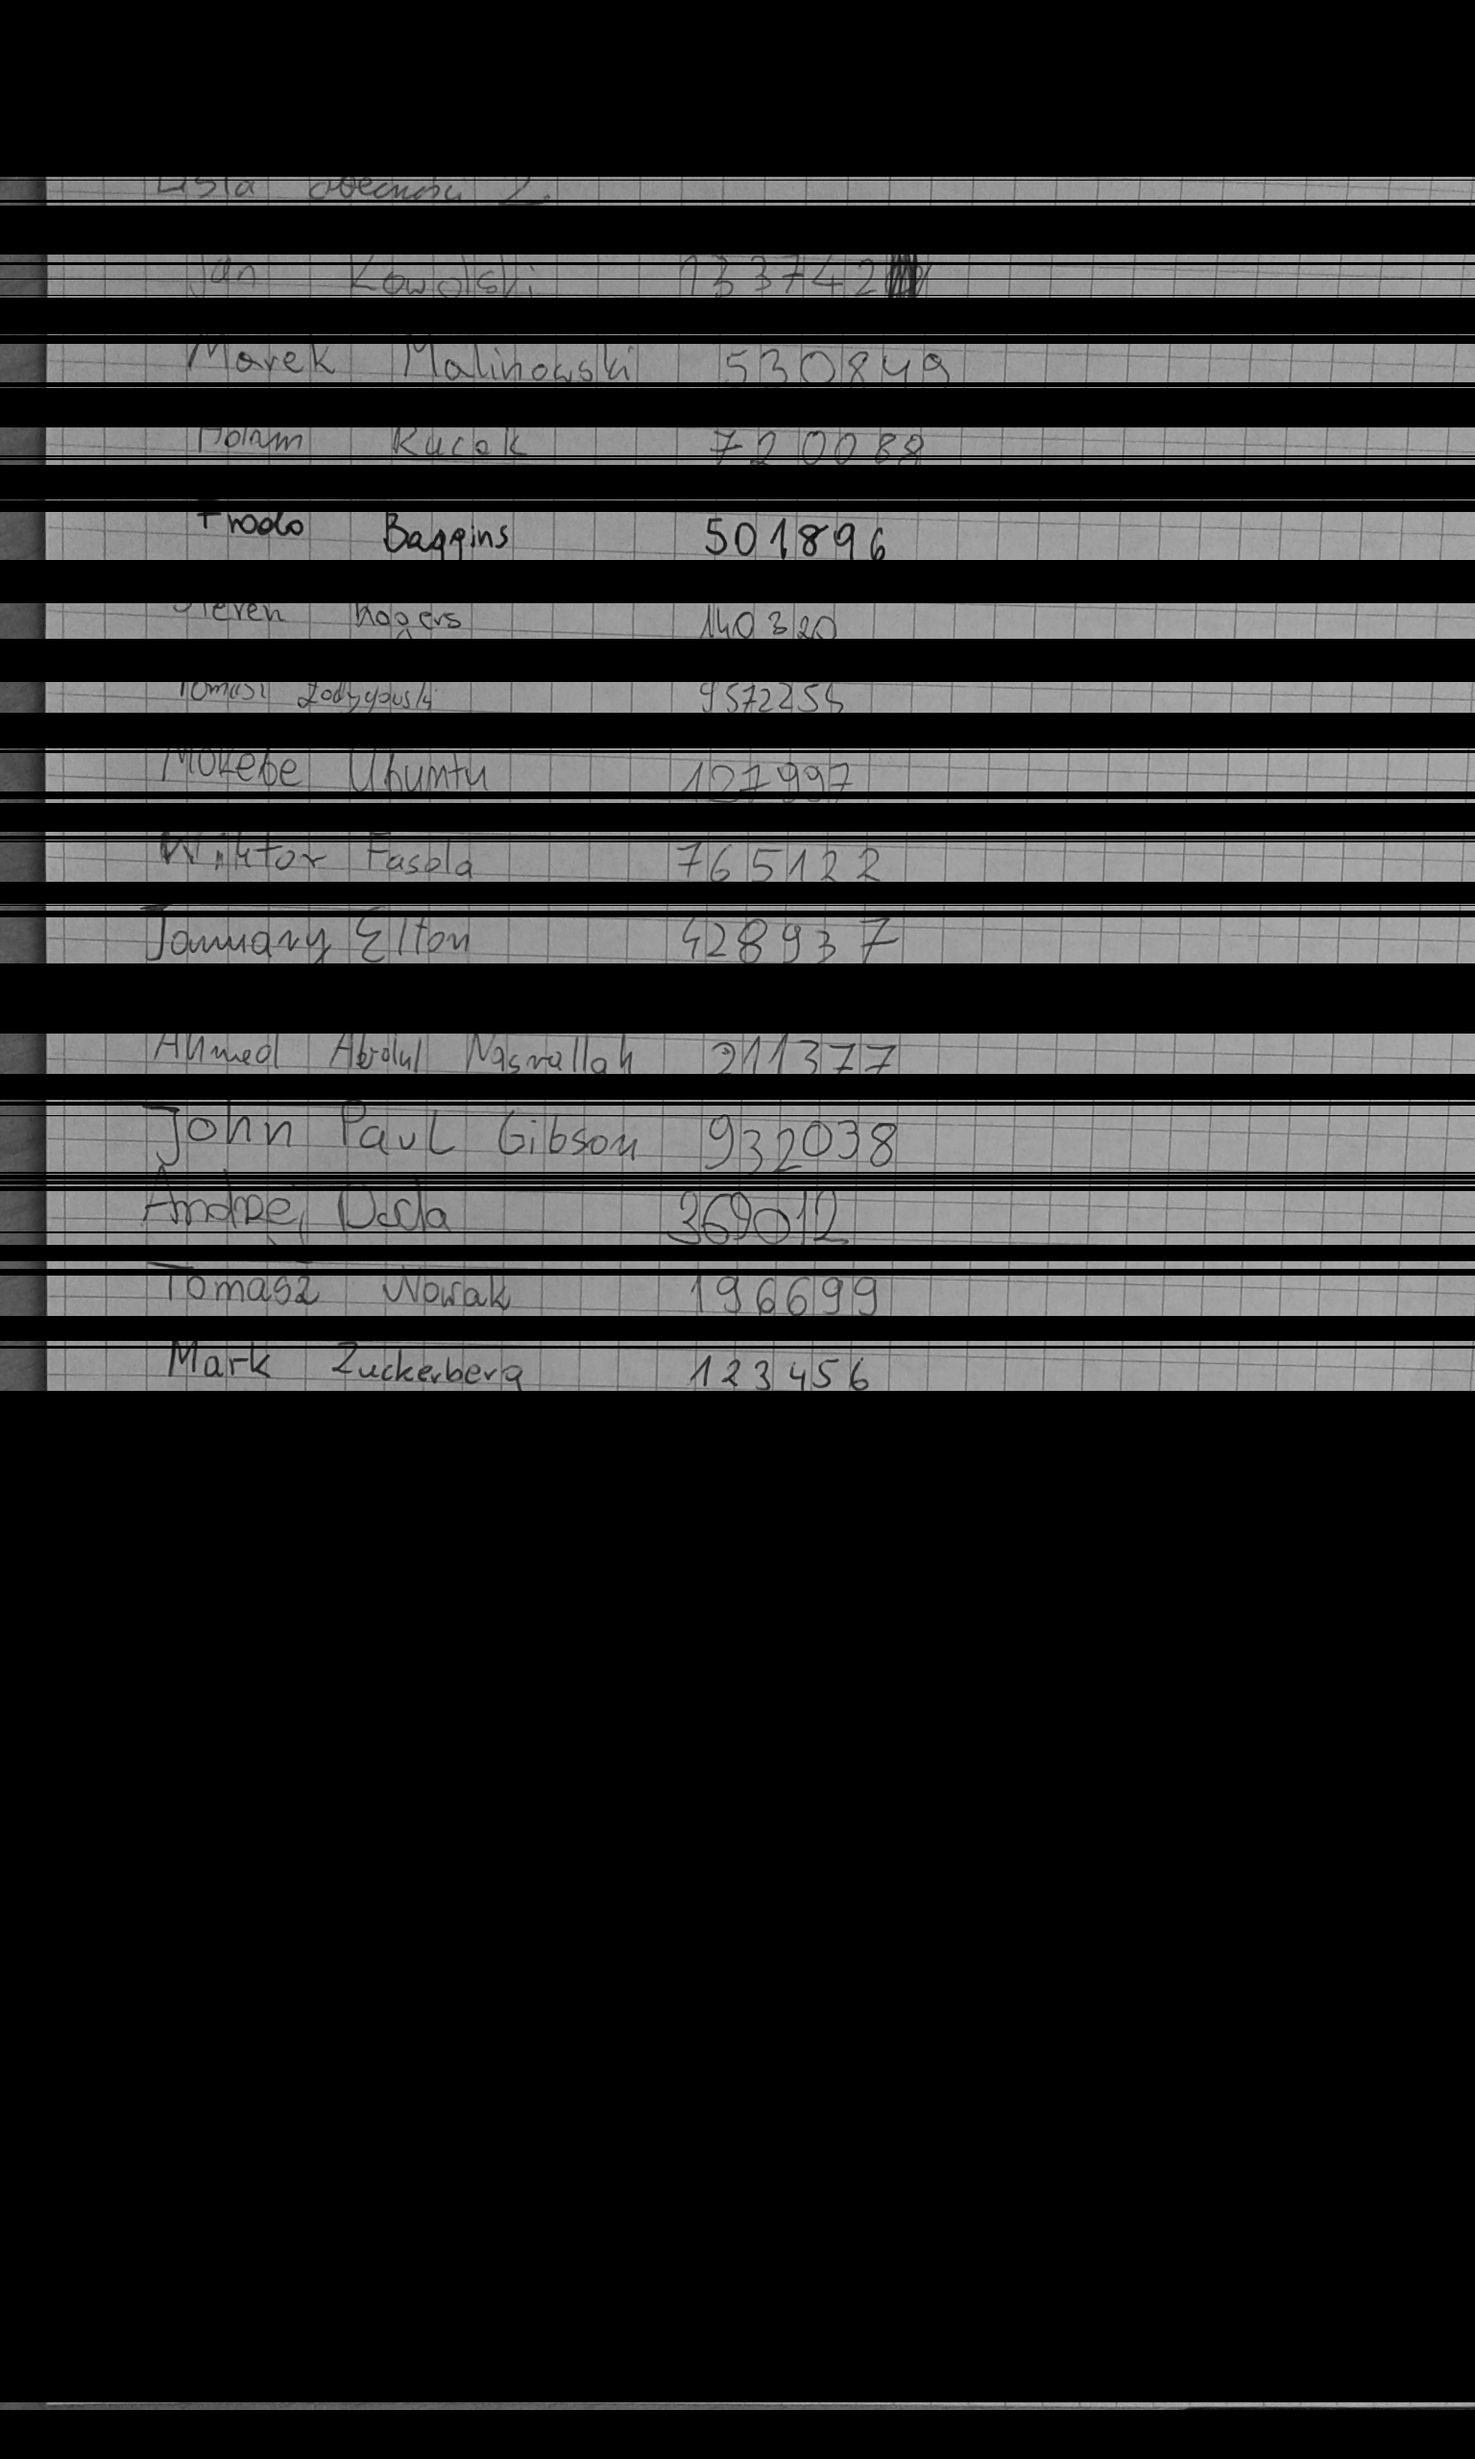
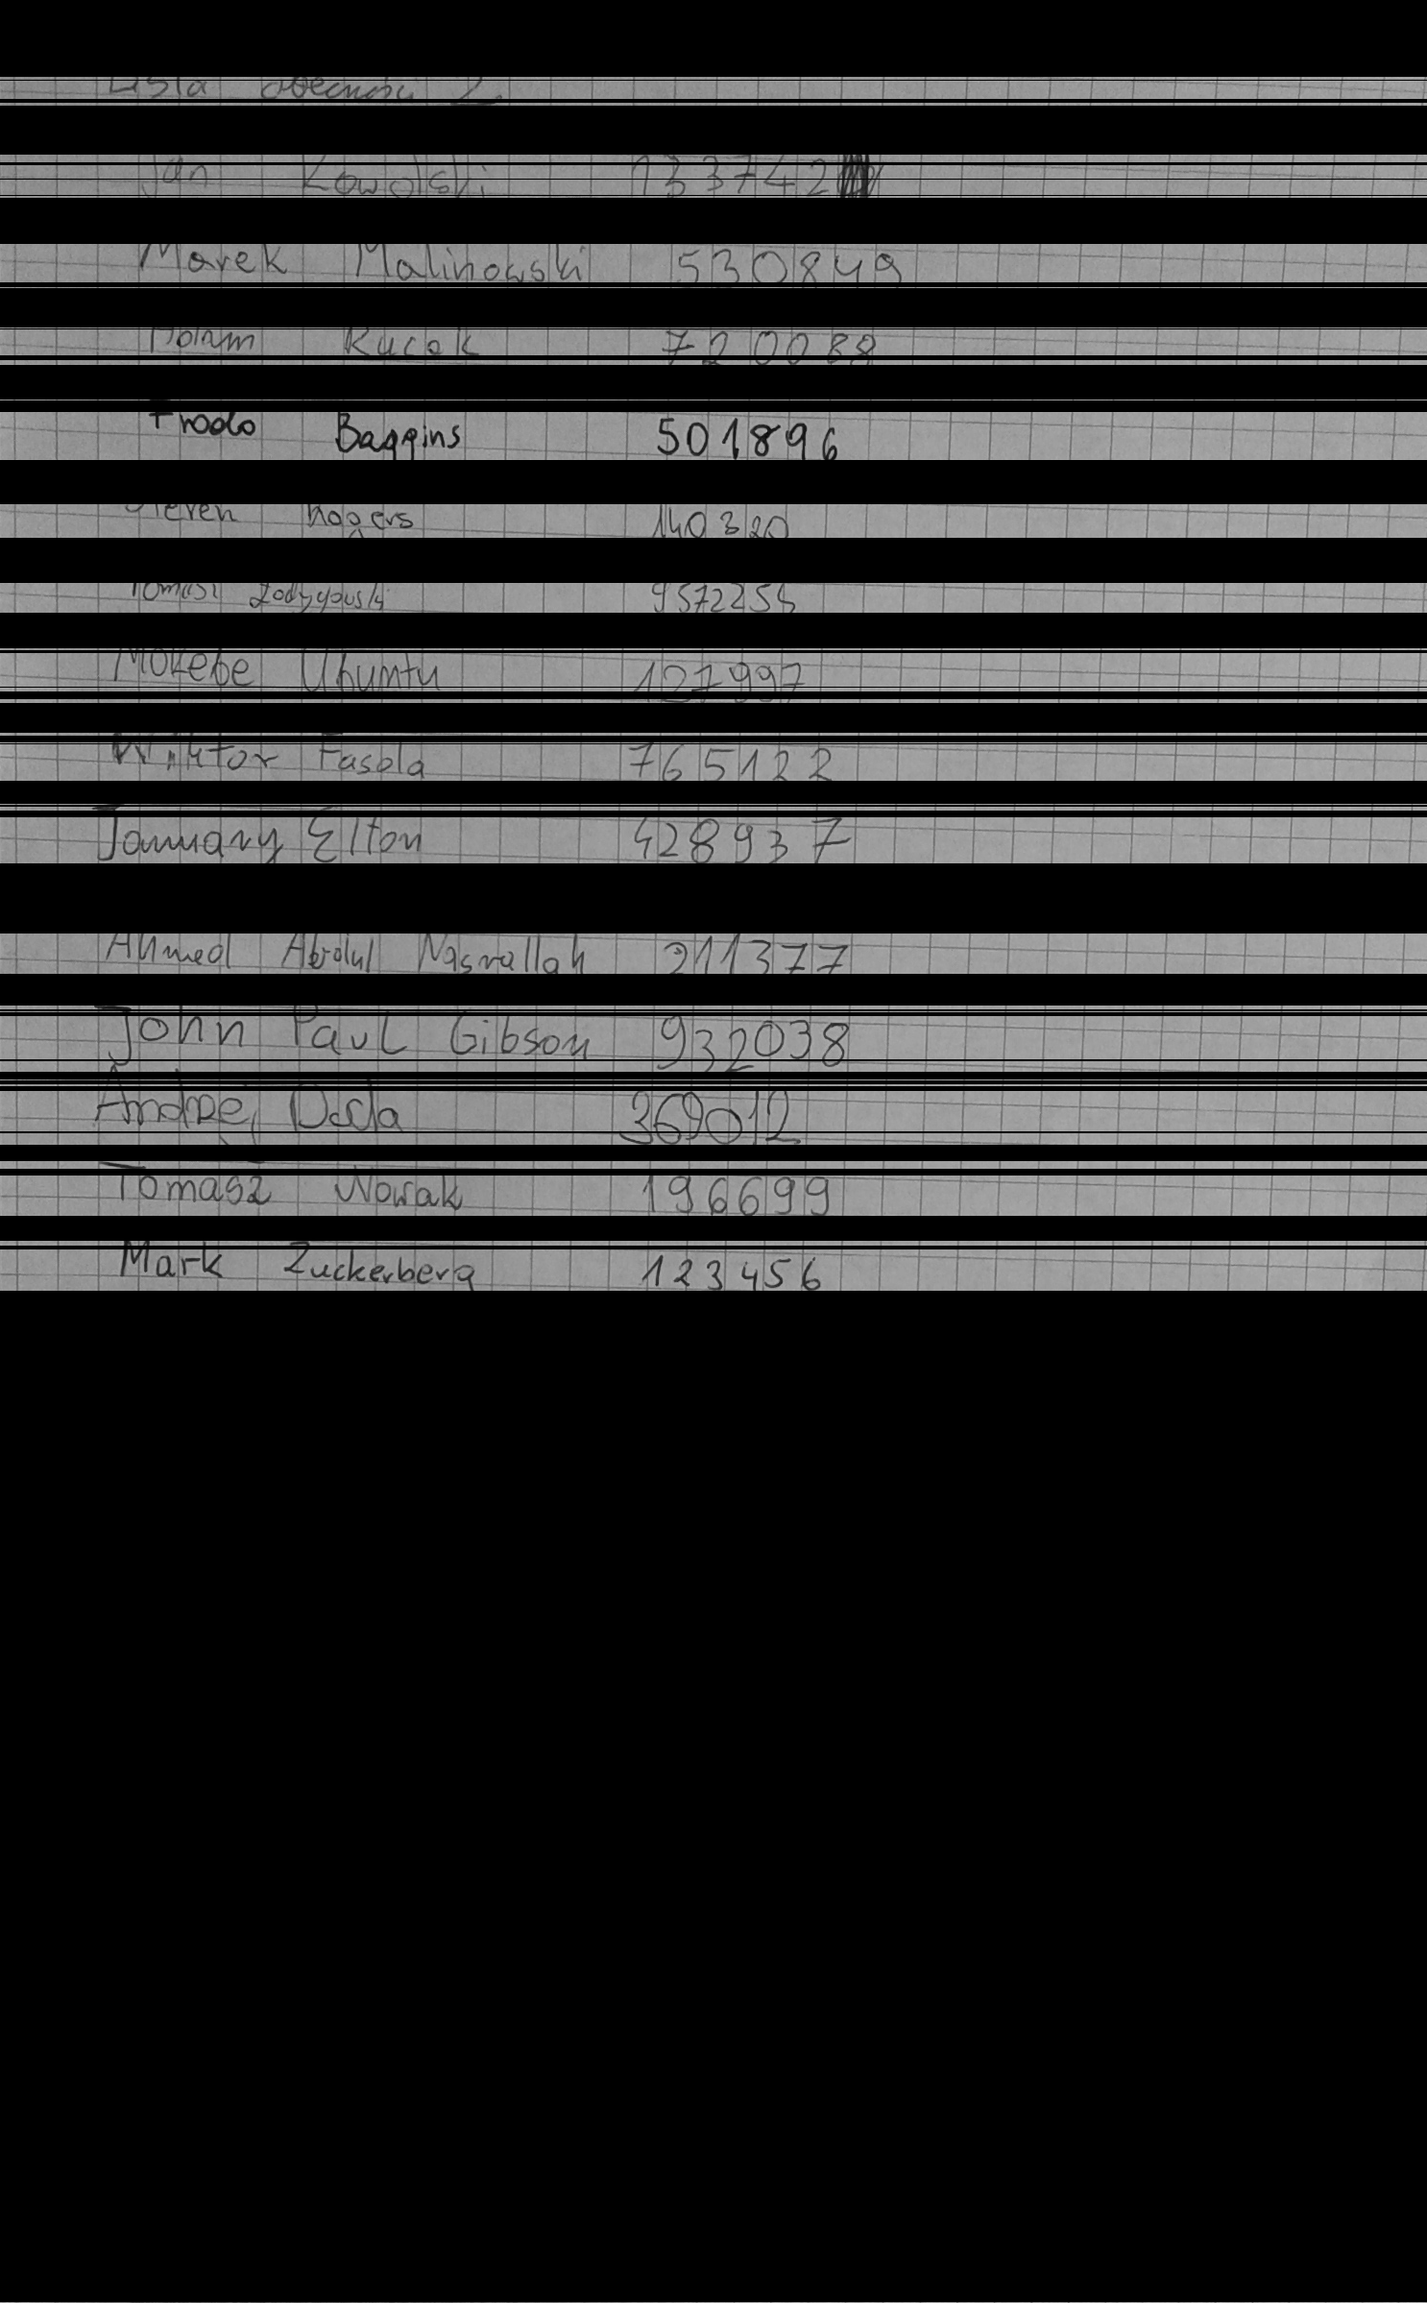
Add a module for surrounding removal

Changed region(s): [[0.0, 0.0309, 1.0, 0.5863], [0.031, 0.9566, 0.8048, 0.9875], [0.9287, 0.9566, 1.0, 0.9875]]

diff --git a/surrounding_removal.py b/surrounding_removal.py
@@ -1,0 +1,74 @@
+from skimage.color import rgb2hsv
+import numpy as np
+
+def remove_vert_surrounding(img, img_hsv):
+    hues = img_hsv[:, :, 0]
+    sats = img_hsv[:, :, 1]
+
+    upper_cut = int(img_hsv.shape[0] * 0.2)
+    lower_cut = int(img_hsv.shape[0] * 0.7)
+
+    hues_short = hues[upper_cut:lower_cut]
+    sats_short = sats[upper_cut:lower_cut]
+
+    means_hues = [np.mean(hues_short[i]) for i in range(hues_short.shape[0] // 2)]
+    global_mean_hues = np.mean(means_hues) * 0.85
+
+    means_sats = [np.mean(sats_short[i]) for i in range(sats_short.shape[0] // 2)]
+    global_mean_sats = np.mean(means_sats) * 2.4
+
+
+    if global_mean_hues > 0.4 and global_mean_sats > 0.15:
+        rows_to_delete = [i for i in range(hues.shape[0]) if np.mean(hues[i]) < global_mean_hues]
+    else:
+        rows_to_delete = [i for i in range(sats.shape[0]) if np.mean(sats[i]) > global_mean_sats]
+
+
+    return np.delete(img, rows_to_delete, 0)
+
+
+def remove_horiz_surrounding(img, img_hsv):
+    upper_cut = int(img_hsv.shape[0] * 0.1)
+    lower_cut = int(img_hsv.shape[0] * 0.9)
+    left_cut = int(img_hsv.shape[1] * 0.05)
+    right_cut = int(img_hsv.shape[1] * 0.75)
+
+    hues_t = img_hsv[:, :, 0].transpose()
+    hues_short_t = hues_t[left_cut:right_cut]
+
+    means_hues = [np.mean(hues_short_t[i]) for i in range(hues_short_t.shape[0] // 2)]
+    global_mean_hues = np.mean(means_hues) * 0.75
+
+    cols_to_delete = [i for i, hue in enumerate(hues_t) if np.mean(hue) < global_mean_hues]
+
+    img = np.delete(img, cols_to_delete, 1)
+    img_hsv = np.delete(img_hsv, cols_to_delete, 1)
+
+    left_cut = int(img_hsv.shape[1] * 0.08)
+    right_cut = int(img_hsv.shape[1] * 0.75)
+
+    sats_t = img_hsv[:, :, 1].transpose()
+    sats_t_short = sats_t[left_cut:right_cut]
+    sats_t_left = sats_t[:left_cut]
+    sats_t_right = sats_t[right_cut:]
+
+    means_sats_left = [max(np.mean(col[:upper_cut]), np.mean(col[lower_cut:])) for col in sats_t_left]
+    means_sats_right = [max(np.mean(col[:upper_cut]), np.mean(col[lower_cut:])) for col in sats_t_right]
+
+    means_sats = [np.mean(sats_t_short[i]) for i in range(sats_t_short.shape[0] // 2)]
+    global_mean_sats = np.mean(means_sats) * 7
+
+
+    cols_to_delete = [i for i, mean in enumerate(means_sats_left) if mean > global_mean_sats]
+    cols_to_delete.extend([i + right_cut - 1 for i, mean in enumerate(means_sats_right) if mean > global_mean_sats])
+
+    return np.delete(img, cols_to_delete, 1)
+
+
+def remove_surrounding(img):
+    img_hsv = rgb2hsv(img)
+
+    img = remove_vert_surrounding(img, img_hsv)
+    img = remove_horiz_surrounding(img, img_hsv)
+
+    return img

diff --git a/main.py b/main.py
@@ -1,5 +1,6 @@
 import numpy as np
 from image_io import  *
+from surrounding_removal import remove_surrounding
 
 
 def remove_background(img):
@@ -38,15 +39,17 @@ def main():
     imgs = read_particular_images("data", [24])
     # imgs = read_entire_data_set("data", 29)
 
-    gray = cv2.cvtColor(imgs[0], cv2.COLOR_BGR2GRAY)
+    img = remove_surrounding(imgs[0])
+
+    gray = cv2.cvtColor(img, cv2.COLOR_BGR2GRAY)
 
     thresh = remove_background(gray)
-    rep = detect_lines(imgs[0], thresh)
+    rep = detect_lines(img, thresh)
     rep = broaden_lines(rep)
     result = apply_mask(rep, gray)
 
     display_image(result, 24)
-    
+
 
 if __name__ == "__main__":
     main()
